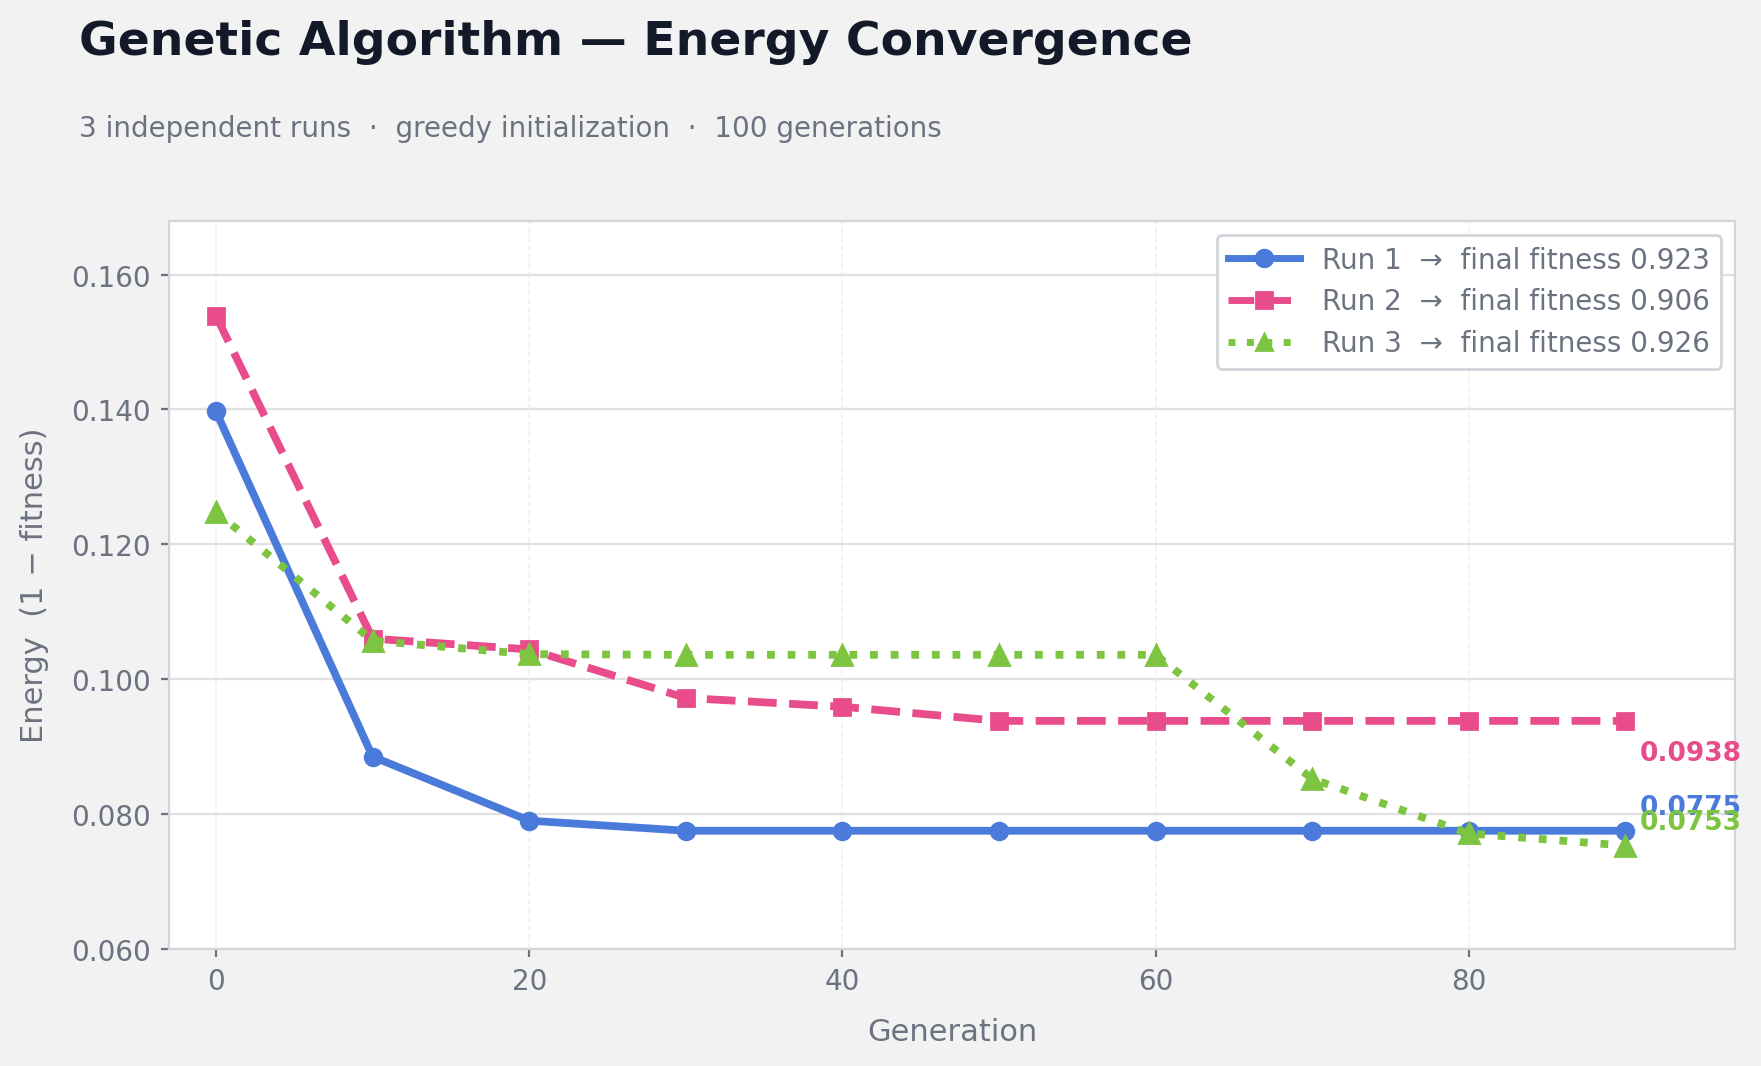
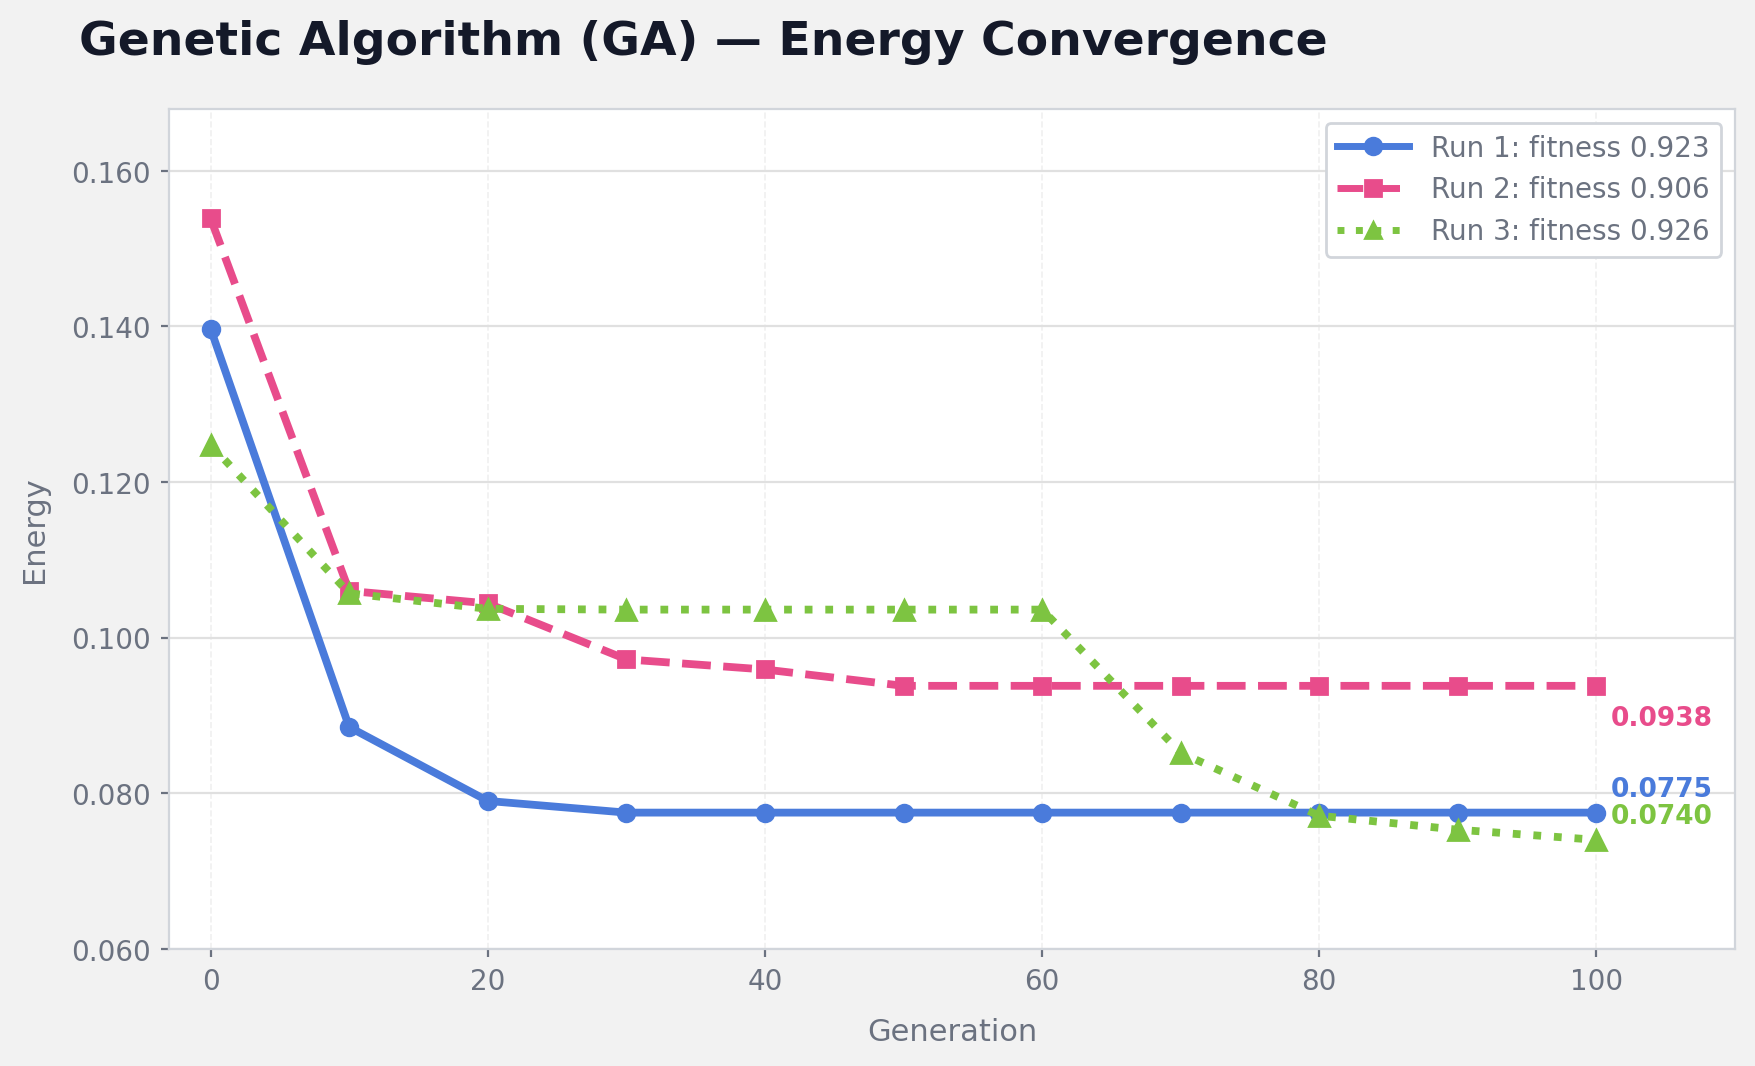
added code for plots

diff --git a/report/main.tex b/report/main.tex
@@ -63,28 +63,26 @@
 % ===== 1. MOTIVATION & PROBLEM STATEMENT =====
 \section{Motivation \& Problem Statement}
 \begin{tcolorbox}[sectionbox, height=4.6cm, valign=top]
-  % --> REMOVE THE \placeholder ENV BELOW, AND ADD YOUR OWN TEXT  <-- %
-  Balancing daily nutritional intake is challenging because foods vary widely in their macro- and micronutrient composition,
-  making it difficult for individuals to meet dietary targets without exceeding or falling short in key nutrients. Most existing
-  meal-planning tools generate static daily or weekly plans that assume perfect adherence, even though people routinely deviate by
-  snacking, eating out, or adjusting portion sizes. When these deviations occur, popular apps such as MacroFactor primarily provide
-  tracking and analytics rather than adaptive guidance that responds to what the user actually consumed. Similarly, services like
-  Hungryroot offer personalized weekly grocery and recipe recommendations, but these suggestions remain fixed and do not update throughout
-  the day as eating behavior changes. This creates a gap between planned and real-world dietary patterns, often leading to nutritional
-  imbalance or unmet goals. Our project addresses this gap by developing a dynamic meal-planning system that recalculates the remaining
-  nutritional budget after each logged meal. The system treats consumed foods as fixed constraints and re-optimizes the rest of the day
-  using stochastic search methods such as simulated annealing and genetic algorithms. This reframes meal planning as a continuous multi-objective
-  optimization problem that balances nutrition, variety, user preferences, and realistic meal compatibility. The core research question
-  guiding this work is: \textbf{How can we design an adaptive meal-planning algorithm that updates throughout the day to recommend
+  Balancing daily nutritional intake is challenging because foods vary widely in their macro- and micronutrient composition, 
+  making it difficult for individuals to meet dietary targets without exceeding or falling short in key nutrients. Most existing 
+  meal-planning tools generate static daily or weekly plans that assume perfect adherence, even though people routinely deviate by 
+  snacking, eating out, or adjusting portion sizes. When these deviations occur, popular apps such as MacroFactor primarily provide 
+  tracking and analytics rather than adaptive guidance that responds to what the user actually consumed. Similarly, services like 
+  Hungryroot offer personalized weekly grocery and recipe recommendations, but these suggestions remain fixed and do not update throughout 
+  the day as eating behavior changes. This creates a gap between planned and real-world dietary patterns, often leading to nutritional 
+  imbalance or unmet goals. Our project addresses this gap by developing a dynamic meal-planning system that recalculates the remaining 
+  nutritional budget after each logged meal. The system treats consumed foods as fixed constraints and re-optimizes the rest of the day 
+  using stochastic search methods such as simulated annealing and genetic algorithms. This reframes meal planning as a continuous multi-objective 
+  optimization problem that balances nutrition, variety, user preferences, and realistic meal compatibility. The core research question 
+  guiding this work is: \textbf{How can we design an adaptive meal-planning algorithm that updates throughout the day to recommend 
   nutritionally balanced, realistic, and user-aligned meals after each logged food choice?}
 \end{tcolorbox}
 
 % ===== 2. APPROACH =====
 \section{Approach}
 \begin{tcolorbox}[sectionbox, height=7.0cm, valign=top]
-% --> REMOVE THE \placeholder ENV BELOW, AND ADD YOUR OWN TEXT  <-- %
-  Our system follows a rolling-horizon optimization framework that updates meal recommendations dynamically based on what the user has already eaten.
-  We begin by preprocessing two large datasets, USDA Foundation Foods and OpenFoodFacts, normalizing all entries to a per-100g basis, removing incomplete
+  Our system follows a rolling-horizon optimization framework that updates meal recommendations dynamically based on what the user has already eaten. 
+  We begin by preprocessing two large datasets, USDA Foundation Foods and OpenFoodFacts, normalizing all entries to a per-100g basis, removing incomplete 
   or unrealistic foods, filtering out non-standalone items, and capping categories to ensure variety, resulting in a cleaned dataset of roughly 10,000 foods.
   Logged meals are treated as fixed constraints, and the remaining nutrient budget is passed into a greedy initialization module that constructs a strong
   starting plan by sampling candidate foods, estimating optimal portion multipliers, and applying soft penalties to discourage repeated categories.
@@ -104,16 +102,15 @@
 % ===== 3. KEY RESULTS =====
 \section{Key Results}
 \begin{tcolorbox}[sectionbox, height=8cm, valign=top]
-% --> REMOVE THE \placeholder ENV BELOW, AND ADD YOUR OWN TEXT  <-- %
-  Across all the experiments, the Genetic Algorithm (GA) demonstrated superior performance relative to Simulated Annealing (SA) in optimizing daily meal plans.
-  Using greedy initialization, GA achieved final fitness scores of 0.923, 0.906, and 0.926 across three independent runs, corresponding to low energy values
-  between 0.075 and 0.094. In contrast, SA converged to lower fitness values of 0.855, 0.867, and 0.842, with energy values between 0.133 and 0.158.
-  Notably, SA had an early plateau around step 2000, indicating that the cooling schedule limited its ability to escape local minima despite additional iterations.
-  Comparing the two methods further highlights this disparity: GA attained an average final fitness of 0.918, exceeding SA’s average of 0.855 by approximately 7.4\%.
-  These results suggest that population-based search is more effective for this multi-objective optimization problem, as GA continues to explore various paths
-  and avoids converging early. Additionally, GA-generated meal plans achieved higher variety and stronger meal-type compatibility, often reaching maximal
-  sub-scores in these dimensions. SA performed well during the initial exploration phase but was less capable of refining solutions once the temperature decreased,
-  consistent with expectations for single-path stochastic search. Overall, the findings validate the system’s design choices and demonstrate that combining
+  Across all the experiments, the Genetic Algorithm (GA) demonstrated superior performance relative to Simulated Annealing (SA) in optimizing daily meal plans. 
+  Using greedy initialization, GA achieved final fitness scores of 0.923, 0.906, and 0.926 across three independent runs, corresponding to low energy values 
+  between 0.075 and 0.094. In contrast, SA converged to lower fitness values of 0.855, 0.867, and 0.842, with energy values between 0.133 and 0.158. 
+  Notably, SA had an early plateau around step 2000, indicating that the cooling schedule limited its ability to escape local minima despite additional iterations. 
+  Comparing the two methods further highlights this disparity: GA attained an average final fitness of 0.918, exceeding SA’s average of 0.855 by approximately 7.4\%. 
+  These results suggest that population-based search is more effective for this multi-objective optimization problem, as GA continues to explore various paths 
+  and avoids converging early. Additionally, GA-generated meal plans achieved higher variety and stronger meal-type compatibility, often reaching maximal 
+  sub-scores in these dimensions. SA performed well during the initial exploration phase but was less capable of refining solutions once the temperature decreased, 
+  consistent with expectations for single-path stochastic search. Overall, the findings validate the system’s design choices and demonstrate that combining 
   greedy initialization with GA yields the most reliable and nutritionally comprehensive meal plans.
 
 \end{tcolorbox}
@@ -124,28 +121,25 @@
 \includegraphics[width=0.42\linewidth]{chart_sa_convergence.png}\hfill
 \includegraphics[width=0.42\linewidth]{chart_ga_convergence.png}
   \\
-  % --> REMOVE THE \placeholder ENV BELOW, AND ADD YOUR OWN TEXT  <-- %
 \end{tcolorbox}
 
 % ===== 4. CHALLENGES & LESSONS LEARNED =====
 \section{Challenges \& Lessons Learned}
 \begin{tcolorbox}[sectionbox, height=4.4cm, valign=top]
-% --> REMOVE THE \placeholder ENV BELOW, AND ADD YOUR OWN TEXT  <-- %
-  One challenge we encountered was that early versions produced unrealistic portion sizes, such as breakfasts that were disproportionately large
-  or dinners that were implausibly small. This issue stemmed from the optimizer assigning extreme multipliers to foods with unusual calorie densities.
-  We mitigated this issue by enforcing strict \texttt{portion\_min} and \texttt{portion\_max} bounds in both the greedy initializer and the optimization algorithms,
-  which stabilized serving sizes across all meal slots. Another challenge involved incorporating user preferences in a way that generalized beyond simple category matching.
-  Our initial rule-based approach proved too rigid, so we implemented a Gaussian Naive Bayes classifier trained on nutritional features to generate preference probabilities
-  for all foods, significantly improving personalization. We also faced organizational challenges in coordinating preprocessing, initialization, scoring, and optimization modules,
-  which required consistent data formats and shared configuration parameters. A key lesson learned was the importance of clear communication and division of responsibilities within the team,
-  especially when multiple components needed to integrate seamlessly. More broadly, we found that multi-objective optimization requires careful tuning of scoring weights,
+  One challenge we encountered was that early versions produced unrealistic portion sizes, such as breakfasts that were disproportionately large 
+  or dinners that were implausibly small. This issue stemmed from the optimizer assigning extreme multipliers to foods with unusual calorie densities. 
+  We mitigated this issue by enforcing strict \texttt{portion\_min} and \texttt{portion\_max} bounds in both the greedy initializer and the optimization algorithms, 
+  which stabilized serving sizes across all meal slots. Another challenge involved incorporating user preferences in a way that generalized beyond simple category matching. 
+  Our initial rule-based approach proved too rigid, so we implemented a Gaussian Naive Bayes classifier trained on nutritional features to generate preference probabilities 
+  for all foods, significantly improving personalization. We also faced organizational challenges in coordinating preprocessing, initialization, scoring, and optimization modules, 
+  which required consistent data formats and shared configuration parameters. A key lesson learned was the importance of clear communication and division of responsibilities within the team, 
+  especially when multiple components needed to integrate seamlessly. More broadly, we found that multi-objective optimization requires careful tuning of scoring weights, 
   as small adjustments can meaningfully alter algorithm behavior. These insights will guide any possible future extensions, particularly for multi-day planning and more complex dietary constraints.
 \end{tcolorbox}
 
 % ===== 5. INDIVIDUAL CONTRIBUTIONS =====
 \section{Individual Contributions}
 \begin{tcolorbox}[sectionbox, height=4.3cm, valign=top]
-% --> REMOVE THE \placeholder ENV BELOW BEFORE SUBMISSION  <-- %
   \vspace{4pt}
   \centering
   \begin{tabularx}{0.95\textwidth}{l X c}

diff --git a/src/plot.py b/src/plot.py
@@ -1,0 +1,114 @@
+import matplotlib.pyplot as plt
+import matplotlib.ticker as ticker
+
+BG        = "#F2F2F2"
+CARD_BG   = "#FFFFFF"
+TITLE_CLR = "#141929"
+BODY_CLR  = "#6B7280"
+GRID_CLR  = "#E0E0E0"
+BORDER    = "#D1D5DB"
+BLUE      = "#4A7BDB"
+PINK      = "#E84C8B"
+GREEN     = "#7DC441"
+ORANGE    = "#F5A623"
+
+def style_ax(ax, xlabel, ylabel):
+    ax.set_facecolor(CARD_BG)
+    ax.set_xlabel(xlabel, fontsize=11, color=BODY_CLR, labelpad=8)
+    ax.set_ylabel(ylabel, fontsize=11, color=BODY_CLR, labelpad=8)
+    ax.tick_params(colors=BODY_CLR, labelsize=10, length=3)
+    for s in ax.spines.values():
+        s.set_edgecolor(BORDER)
+        s.set_linewidth(0.8)
+    ax.grid(axis="y", color=GRID_CLR, linewidth=0.8)
+    ax.grid(axis="x", color=GRID_CLR, linewidth=0.6, linestyle="--", alpha=0.5)
+    ax.set_axisbelow(True)
+
+def make_legend(ax, items):
+    handles = [
+        plt.Line2D([0], [0], color=c, linewidth=2.5, linestyle=ls,
+                   label=lbl, marker=mk, markersize=6)
+        for lbl, c, ls, mk in items
+    ]
+    ax.legend(handles=handles, loc="upper right", frameon=True, framealpha=1,
+              facecolor=CARD_BG, edgecolor=BORDER, fontsize=10,
+              labelcolor=BODY_CLR, handlelength=2.6, handletextpad=0.8)
+
+
+# ══════════════════════════════════════════════════════════════════════════
+# CHART 1 — GA CONVERGENCE
+# ══════════════════════════════════════════════════════════════════════════
+ga_gens = [0, 10, 20, 30, 40, 50, 60, 70, 80, 90, 100]
+ga_r1   = [0.1397, 0.0885, 0.0790, 0.0775, 0.0775, 0.0775, 0.0775, 0.0775, 0.0775, 0.0775, 0.0775]
+ga_r2   = [0.1539, 0.1060, 0.1044, 0.0972, 0.0959, 0.0938, 0.0938, 0.0938, 0.0938, 0.0938, 0.0938]
+ga_r3   = [0.1248, 0.1057, 0.1037, 0.1036, 0.1036, 0.1036, 0.1036, 0.0852, 0.0771, 0.0753, 0.074]
+
+fig, ax = plt.subplots(figsize=(9, 5.6), facecolor=BG)
+fig.patch.set_facecolor(BG)
+plt.subplots_adjust(left=0.10, right=0.97, top=0.88, bottom=0.13)
+
+fig.text(0.05, 0.96, "Genetic Algorithm (GA) — Energy Convergence",
+         fontsize=17, fontweight="bold", color=TITLE_CLR, va="top")
+
+ax.plot(ga_gens, ga_r1, color=BLUE,  lw=2.8, ls="-",  marker="o", ms=6, zorder=3)
+ax.plot(ga_gens, ga_r2, color=PINK,  lw=2.8, ls="--", marker="s", ms=6, zorder=3)
+ax.plot(ga_gens, ga_r3, color=GREEN, lw=2.8, ls=":",  marker="^", ms=7, zorder=3)
+
+for vals, clr, dy in [(ga_r1, BLUE, 6), (ga_r2, PINK, -14), (ga_r3, GREEN, 6)]:
+    ax.annotate(f"{vals[-1]:.4f}", xy=(ga_gens[-1], vals[-1]),
+                xytext=(5, dy), textcoords="offset points",
+                fontsize=9.5, color=clr, fontweight="bold")
+
+style_ax(ax, "Generation", "Energy")
+ax.set_xlim(-3, 110)
+ax.set_ylim(0.060, 0.168)
+ax.yaxis.set_major_formatter(ticker.FormatStrFormatter("%.3f"))
+
+make_legend(ax, [
+    ("Run 1: fitness 0.923", BLUE,  "-",  "o"),
+    ("Run 2: fitness 0.906", PINK,  "--", "s"),
+    ("Run 3: fitness 0.926", GREEN, ":",  "^"),
+])
+
+plt.savefig("report/chart_ga_convergence.png", dpi=200, bbox_inches="tight", facecolor=BG)
+plt.close()
+
+
+# ══════════════════════════════════════════════════════════════════════════
+# CHART 2 — SA CONVERGENCE
+# ══════════════════════════════════════════════════════════════════════════
+sa_steps = [0, 2000, 4000, 6000, 8000, 10000]
+sa_r1    = [0.3476, 0.1453, 0.1453, 0.1453, 0.1453, 0.1453]
+sa_r2    = [0.2492, 0.1493, 0.1331, 0.1331, 0.1331, 0.1331]
+sa_r3    = [0.3451, 0.1576, 0.1576, 0.1576, 0.1576, 0.1576]
+
+fig, ax = plt.subplots(figsize=(9, 5.6), facecolor=BG)
+fig.patch.set_facecolor(BG)
+plt.subplots_adjust(left=0.10, right=0.97, top=0.88, bottom=0.13)
+
+fig.text(0.05, 0.96, "Simulated Annealing (SA) — Energy Convergence",
+         fontsize=17, fontweight="bold", color=TITLE_CLR, va="top")
+
+ax.plot(sa_steps, sa_r1, color=BLUE,   lw=2.8, ls="-",  marker="o", ms=7, zorder=3)
+ax.plot(sa_steps, sa_r2, color=PINK,   lw=2.8, ls="--", marker="s", ms=7, zorder=3)
+ax.plot(sa_steps, sa_r3, color=ORANGE, lw=2.8, ls=":",  marker="^", ms=8, zorder=3)
+
+for vals, clr, dy in [(sa_r1, BLUE, 8), (sa_r2, PINK, -15), (sa_r3, ORANGE, 8)]:
+    ax.annotate(f"{vals[-1]:.4f}", xy=(sa_steps[-1], vals[-1]),
+                xytext=(5, dy), textcoords="offset points",
+                fontsize=9.5, color=clr, fontweight="bold")
+
+style_ax(ax, "Step", "Energy")
+ax.set_xlim(-200, 11200)
+ax.set_ylim(0.09, 0.40)
+ax.xaxis.set_major_formatter(ticker.FuncFormatter(lambda x, _: f"{int(x):,}"))
+ax.yaxis.set_major_formatter(ticker.FormatStrFormatter("%.3f"))
+
+make_legend(ax, [
+    ("Run 1: fitness 0.855", BLUE,   "-",  "o"),
+    ("Run 2: fitness 0.867", PINK,   "--", "s"),
+    ("Run 3: fitness 0.842", ORANGE, ":",  "^"),
+])
+
+plt.savefig("report/chart_sa_convergence.png", dpi=200, bbox_inches="tight", facecolor=BG)
+plt.close()
